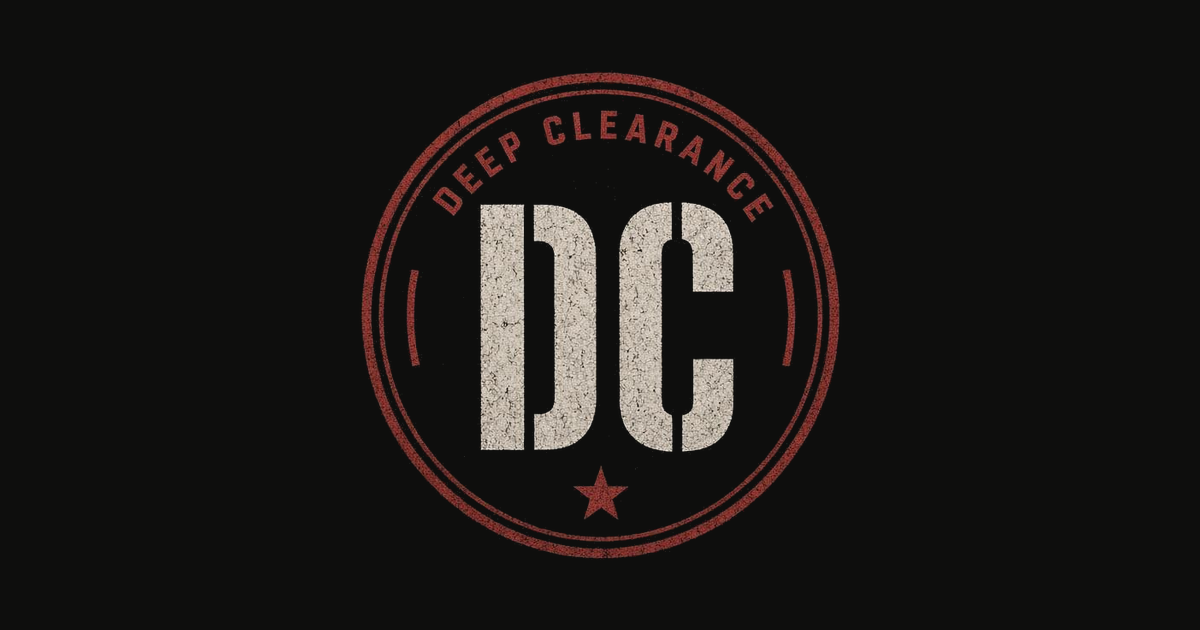
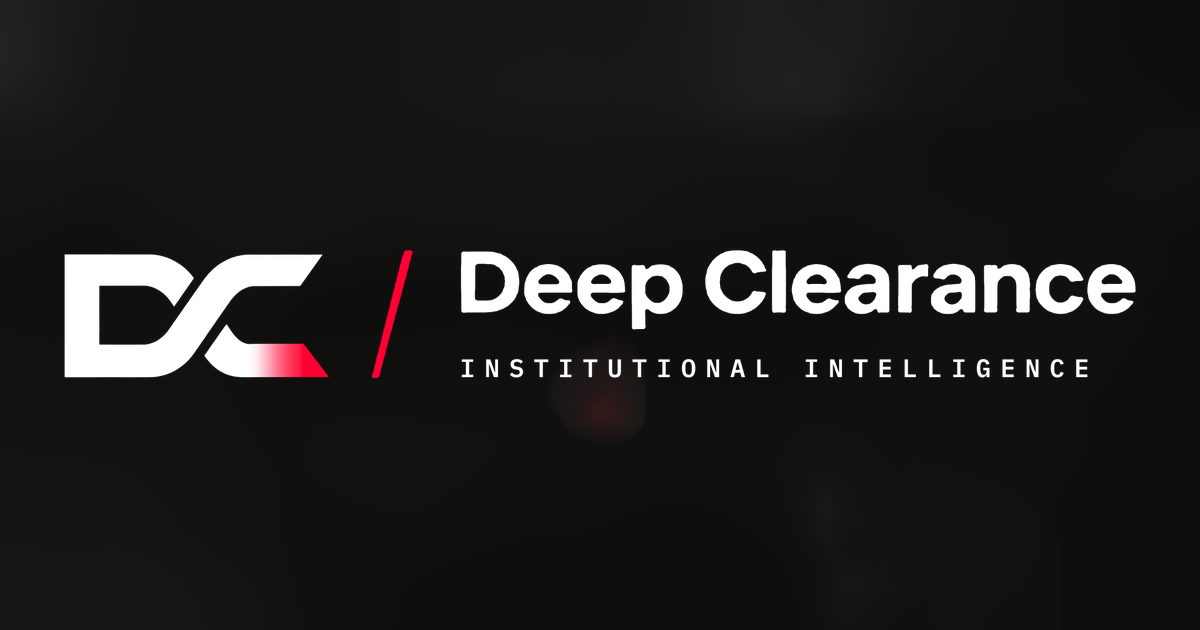
Replace the org lockup with the current v13 mark.
The profile was still showing the old seal. The card and the surrounding copy now match the institutional-intelligence charter on the site.

Changed region(s): [[0.0308, 0.0905, 0.9558, 0.9048], [0.4625, 0.754, 0.5242, 0.8143]]

diff --git a/profile/README.md b/profile/README.md
@@ -1,7 +1,7 @@
 # Deep Clearance
 
 <p align="center">
-  <img src="DC_og_1200x630_v13_lockup.png" alt="Deep Clearance" width="640">
+  <img src="DC_og_1200x630_v13_lockup.png" alt="Deep Clearance. Institutional intelligence." width="640">
 </p>
 
 Understand the system. Challenge the narrative.
@@ -12,11 +12,17 @@ Primary-source research on institutional power. Every answer comes with the sour
 
 ---
 
-The public story is what a chemical company, a court, or an agency was willing to say. The documents show what they did, and what they spent to keep the rest quiet. Deep Clearance searches those documents.
+Deep Clearance is institutional intelligence for independent thinkers. It searches filings, court documents, released government files, patents, and interviews, and returns the passage with its source attached.
 
-The index is stored passages. It is not a live web crawl. About 1,476,000 passages sit under one standard, with the source attached to the answer. Classified documents stay outside the index.
+Every passage is labeled for what it can support. Documentation stays apart from inference, and the limits of the evidence are written down. Read the source. Draw your own conclusion.
 
-A connected model keeps mixed labels apart, names a missing label, and stops when the index has no passage. Login does not mint a free key.
+The index is stored passages. It is not a live web crawl. About 1,476,000 passages sit under one standard. Classified documents are not in the index. Login does not mint a free key.
+
+## Mission
+
+To equip independent thinkers with the evidence and intelligence to understand the institutions, incentives, and decisions shaping our economic and political world, so they can challenge prevailing narratives with verifiable facts.
+
+The work covers institutional mechanisms and incentives, monetary and economic context, and source trails, with an assessment of how strong each piece of evidence is. Unknowns are stated plainly. It does not assume hidden motives. It does not turn weak associations into allegations, or present a contested reading as settled fact.
 
 ## How a passage is labeled
 
@@ -38,7 +44,7 @@ Depth is not a second copy of strength. A government report can still quote a we
 - **T3** is one argument, standing on its own, with the points that would knock it down written down.
 - **T4** uses more than one of those arguments together, after each one has been checked on its own.
 
-The branded subject gets read second. When a subject has been called misinformation, deplatformed, or litigated into silence, the first pass is the suppression itself. Who paid for it, when it started, and what form it took come before the branded claim.
+Contested subjects are read in full. When a subject has been labeled misinformation, deplatformed, or taken to court, Deep Clearance reads that history first. Who acted, when, and in what form, as the documents show it. Every major claim says how it could fail. The strongest account on the other side sits beside the thesis.
 
 ## What is in the index
 
@@ -58,6 +64,7 @@ Every plan searches the same documents. A plan buys days and a daily cap. Trial 
 | | |
 | --- | --- |
 | Product | [deepclearance.com](https://deepclearance.com) |
+| About | [Mission and vision](https://deepclearance.com/about/) |
 | Methodology | [How the labels stay apart](https://deepclearance.com/methodology/) |
 | Docs | [Endpoint, tools, topic pins, caps](https://deepclearance.com/docs/) |
 | Plans | [Trial, Researcher, Control](https://deepclearance.com/pricing/) |
